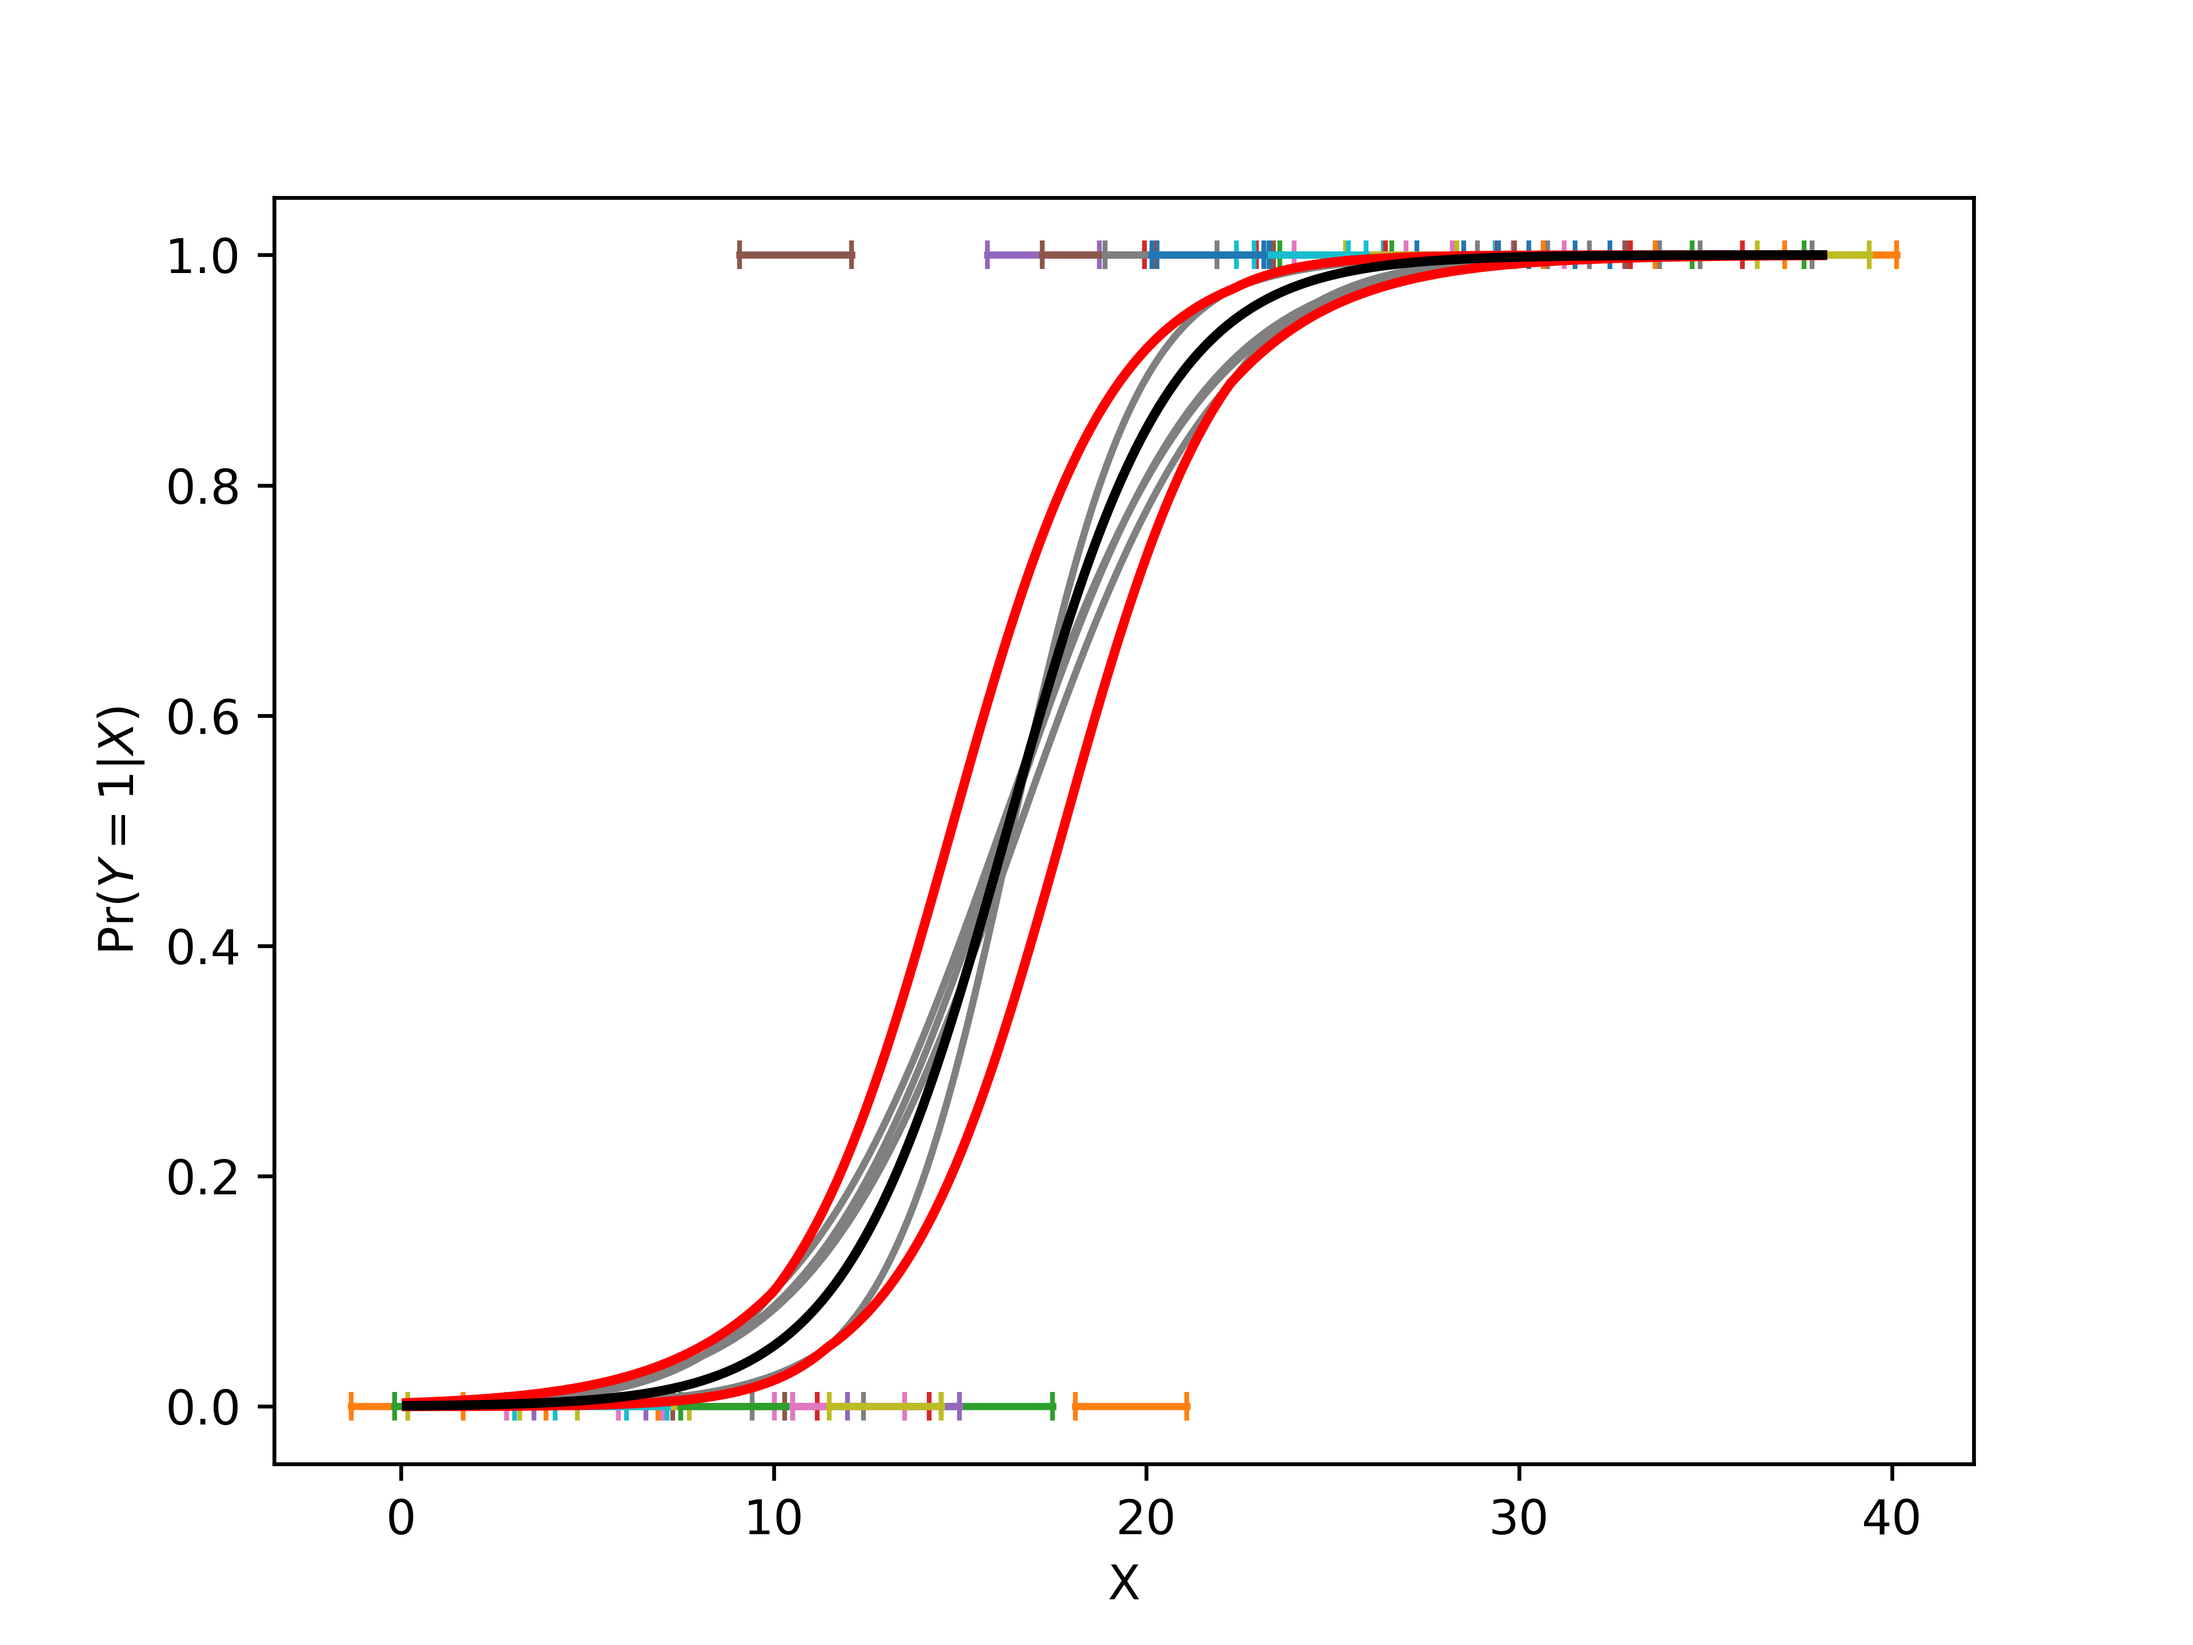
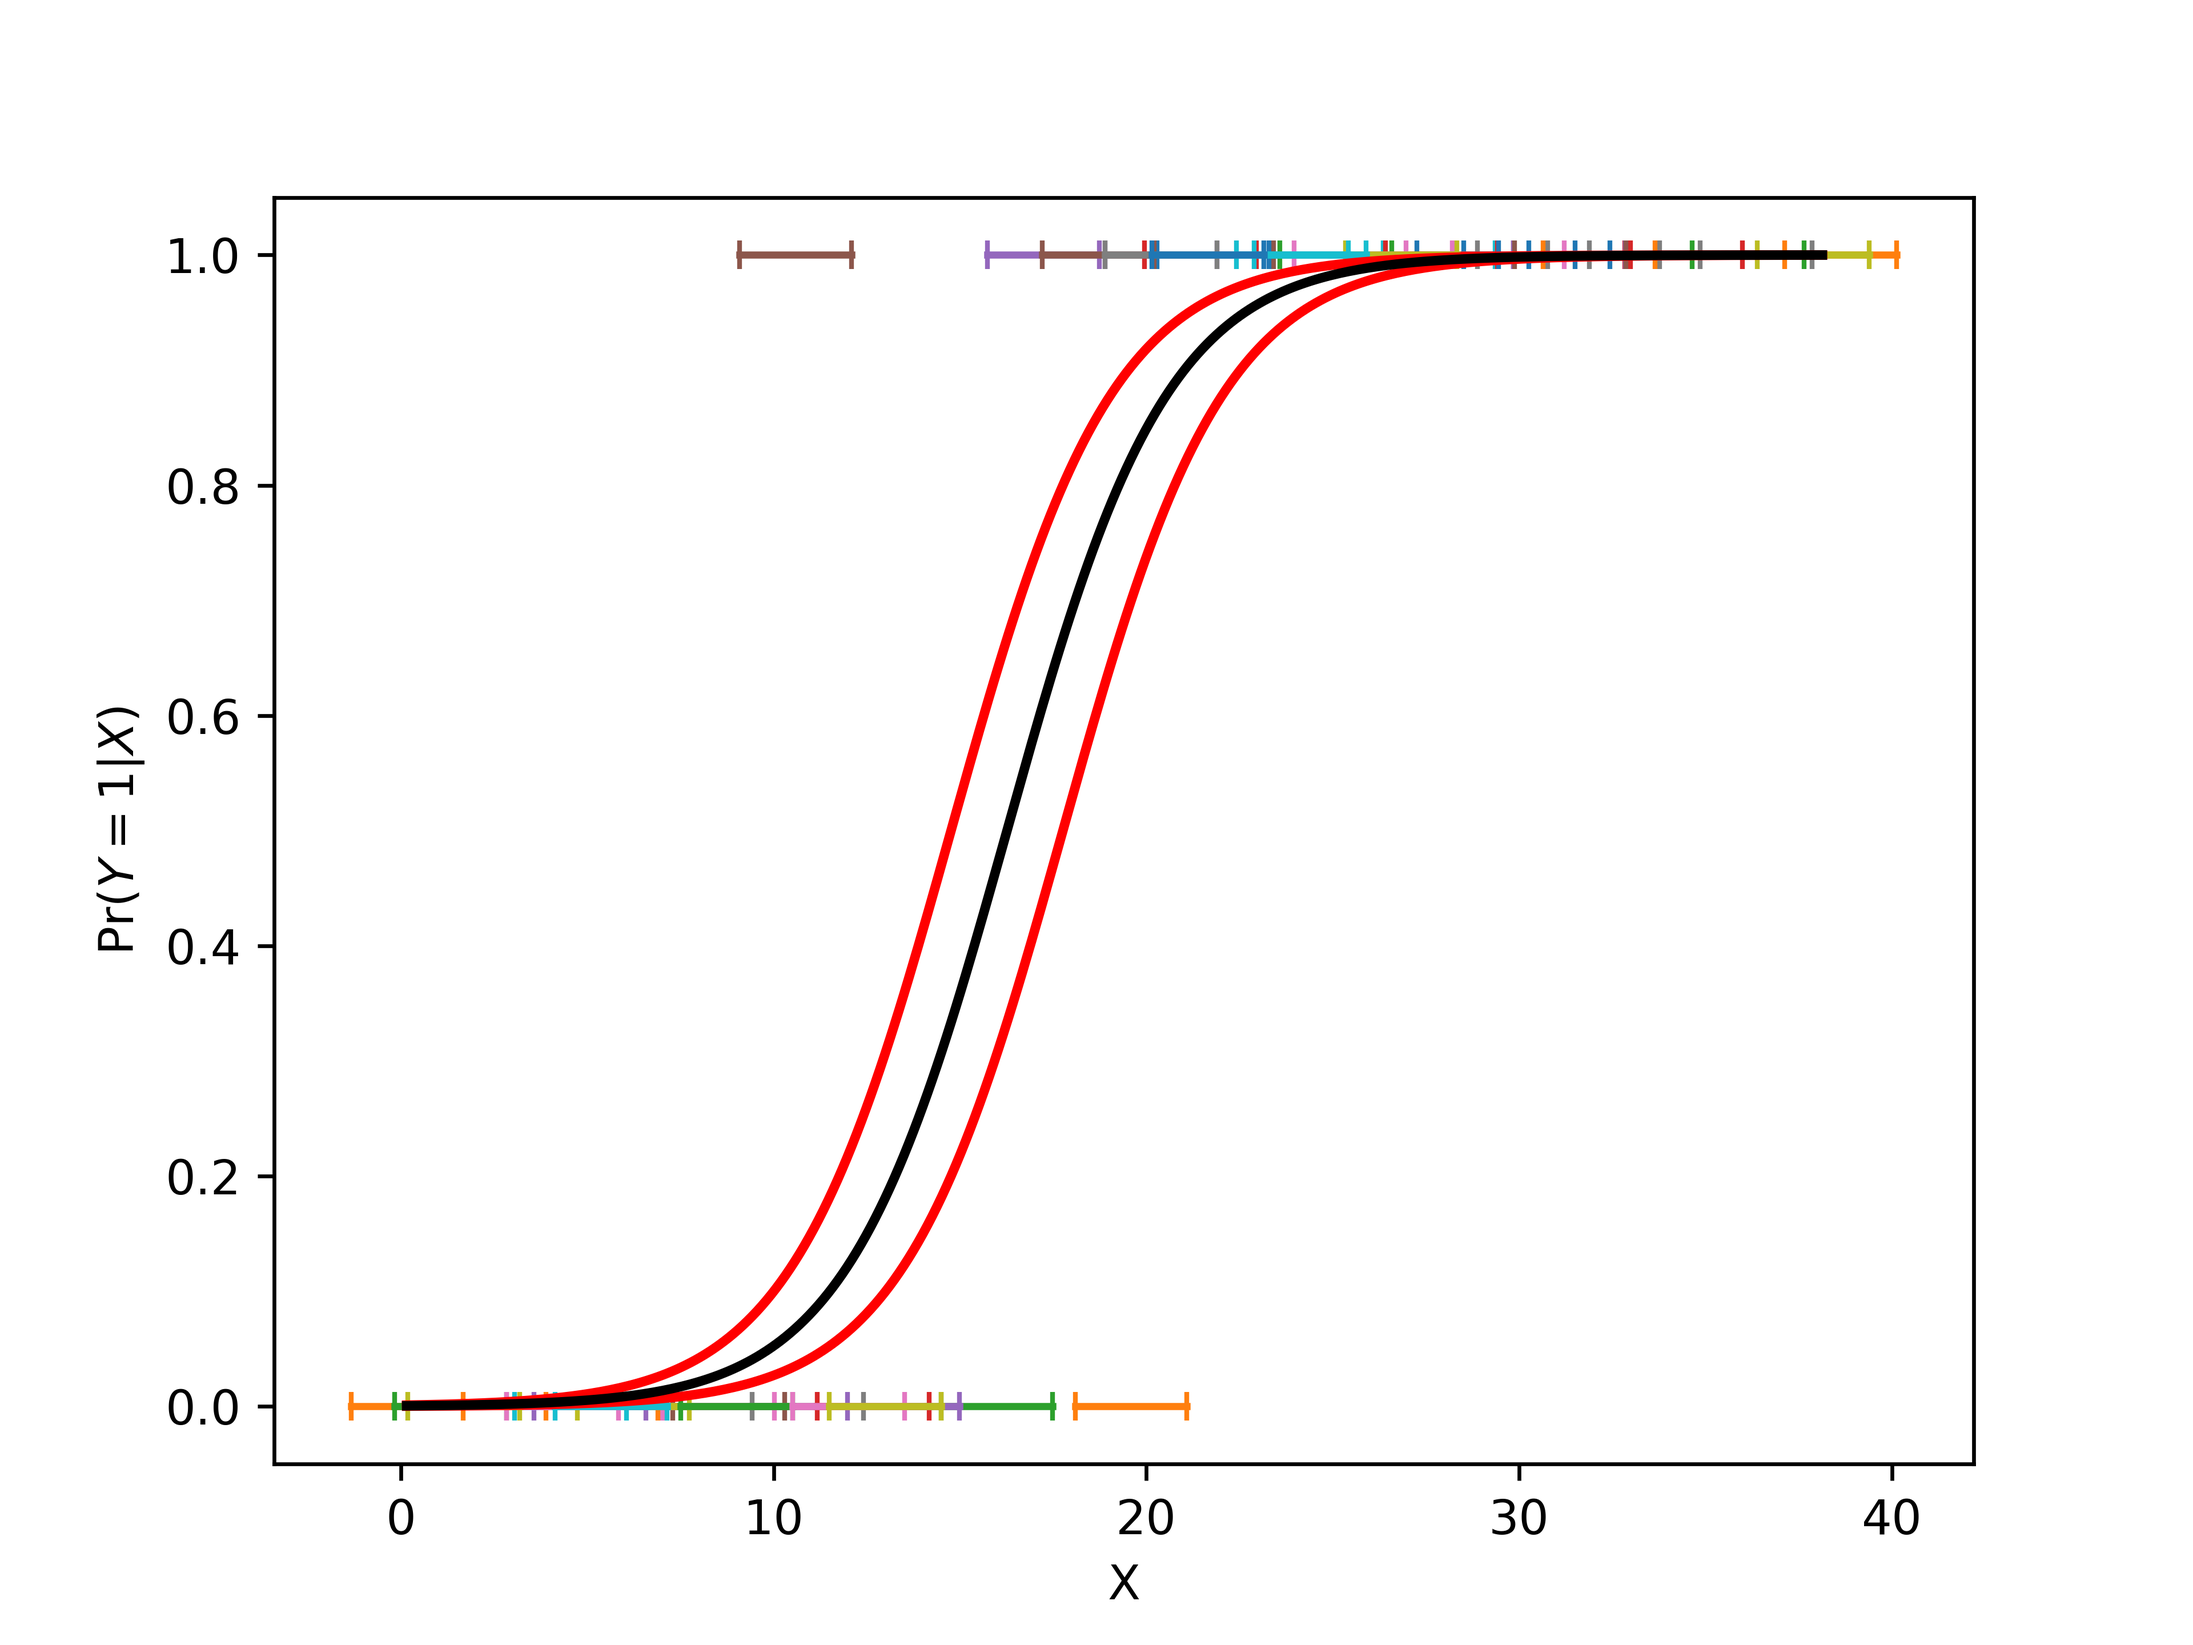
08FEB.01

Changed region(s): [[0.2188, 0.4688, 0.4688, 0.875], [0.4688, 0.1562, 0.6875, 0.4688]]

diff --git a/ex1_int.py b/ex1_int.py
@@ -54,15 +54,18 @@ np.random.seed(111)
 test_data = pd.DataFrame(40*np.random.rand(some,dim))
 test_results = generate_results(test_data)
 
+# Fit true model
+truth = LogisticRegression(max_iter = 1000)
+truth.fit(data.to_numpy(),results.to_numpy())
+
 # Fit base model
 # Base model is midpoints
 MDdata = midpoints(UQdata)
-
-# Fit base model
 base = LogisticRegression(max_iter = 1000)
 base.fit(MDdata.to_numpy(),results.to_numpy())
 
 # Classify test data
+truth_predict = truth.predict(test_data)
 base_predict = base.predict(test_data)
 
 ## fit interval model
@@ -95,9 +98,6 @@ for u,r in zip(UQdata[0],results.to_list()):
     plt.plot([u.Left,u.Right],[r,r], marker='|')
 plt.plot(lX,lY,color='k',zorder=10,lw=2)
 
-# plt.savefig('../paper/figs/ex1.png',dpi = 600)
-# plt.savefig('figs/ex1.png',dpi = 600)
-
 lYmin = np.ones(300)
 lYmax = np.zeros(300)
 
@@ -118,13 +118,22 @@ plt.clf()
 
 ## Get confusion matrix
 with open('runinfo/ex1_int_cm.out','w') as f:
+    
+    print('~~~~TRUE MODEL~~~~', file = f)
+    a,b,c,d = generate_confusion_matrix(test_results,truth_predict)
+    print('TP=%i\tFP=%i\nFN=%i\tTN=%i' %(a,b,c,d),file = f)
+    # Calculate sensitivity and specificity
+    print('Sensitivity = %.3f' %(a/(a+c)),file = f)
+    print('Specificity = %.3f' %(d/(b+d)),file = f)
+    
+    print('~~~~BASE MODEL~~~~', file = f)
     a,b,c,d = generate_confusion_matrix(test_results,base_predict)
     print('TP=%i\tFP=%i\nFN=%i\tTN=%i' %(a,b,c,d),file = f)
-
     # Calculate sensitivity and specificity
     print('Sensitivity = %.3f' %(a/(a+c)),file = f)
     print('Specificity = %.3f' %(d/(b+d)),file = f)
 
+    print('~~~~UQ MODEL~~~~', file = f)
     aaa,bbb,ccc,ddd,eee,fff = generate_confusion_matrix(test_results,predictions,throw = True)
     try:
         sss = 1/(1+ccc/aaa)

diff --git a/LRF.py b/LRF.py
@@ -153,18 +153,29 @@ def get_bounds(UQdata,results,column,binary = False):
             
     return {str(column)+'_'+k:i for k,i in models.items()}
 
-def int_logistic_regression(data,results):
+def int_logistic_regression(UQdata,results):
 
-    models = {}
+    uq_col = []
     
-    for c in data.columns:
+    for c in UQdata.columns:
         # check which columns have interval data
-        for i in data[c]:
+        for i in UQdata[c]:
             if i.__class__.__name__ == 'Interval':
-                
-                models = {**models,**get_bounds(data,results,c)}
+                uq_col.append(c)
                 break
-            
+    
+    data = {'lower':pd.DataFrame({
+                **{c:[i.Left for i in UQdata[c]] for c in uq_col},
+                **{c:UQdata[c] for c in UQdata.columns if c not in uq_col}
+                }, index = UQdata.index),
+            'upper':pd.DataFrame({
+                **{c:[i.Right for i in UQdata[c]] for c in uq_col},
+                **{c:UQdata[c] for c in UQdata.columns if c not in uq_col}
+                }, index = UQdata.index)
+            }
+
+    models = {k:LogisticRegression(max_iter = 1000).fit(d,results) for k,d in data.items()}
+        
     return models
 
 def ROC(model = None, predictions = None, data = None, results = None, uq = False, drop = True):
